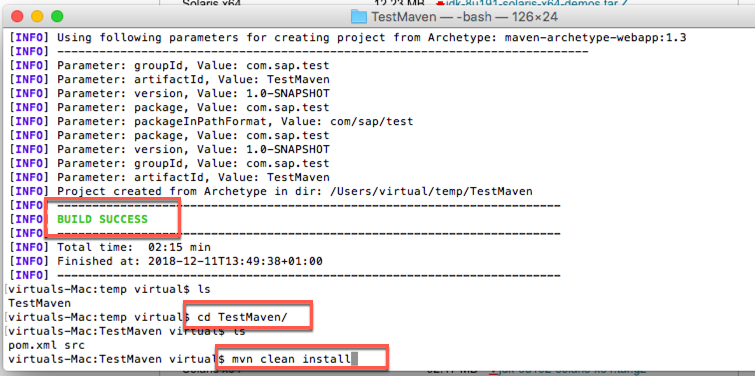
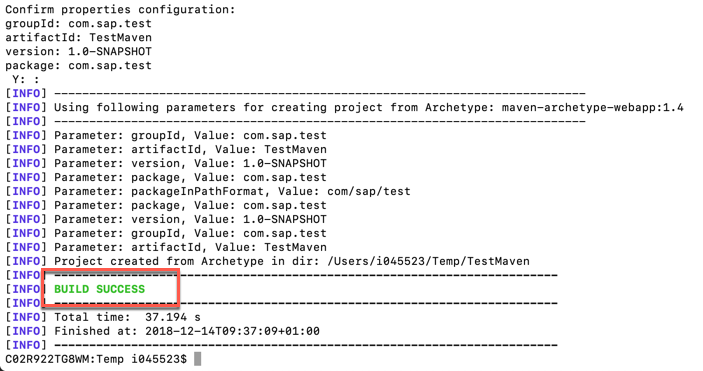
Changed the archetype and related screenshots

diff --git a/Prerequisites/Prerequisites.md b/Prerequisites/Prerequisites.md
@@ -99,7 +99,7 @@ You are ready to test if you can build and run a Java Web application project wi
 1. Go inside this folder in the Terminal and run the following command
 
 	```sh
-	mvn archetype:generate -DarchetypeGroupId=org.apache.maven.archetypes -DarchetypeArtifactId=maven-archetype-quickstart -DarchetypeVersion=1.3
+	mvn archetype:generate -DarchetypeGroupId=org.apache.maven.archetypes -DarchetypeArtifactId=maven-archetype-webapp -DarchetypeVersion=1.4
 	```
 	![](images/02.png)
 
@@ -117,19 +117,23 @@ You are ready to test if you can build and run a Java Web application project wi
 
 	![](images/04.png)
 
-1. At the end of the process you should see the **BUILD SUCCESS** message as shown in the picture. Go inside the *TestMaven* folder and run the command
+1. At the end of the process you should see the **BUILD SUCCESS** message as shown in the picture. 
+
+	![](images/05.png)
+
+1. Go inside the *TestMaven* folder and run the command
 
 	```
 	mvn clean install
 	```
 	This command will trigger the cleaning of the *target* folder and the building of the test application  
-	![](images/05.png)
-
-1. When the process finishes you should have again a **BUILD SUCCESS** message: this means that this sample application has been built successfully  
 	![](images/06.png)
 
-1. You can also check that the application named *TestMaven.war* is correctly available in the target folder  
+1. When the process finishes you should have again a **BUILD SUCCESS** message: this means that this sample application has been built successfully  
 	![](images/07.png)
+
+1. You can also check that the application named *TestMaven.war* is correctly available in the target folder  
+	![](images/08.png)
 
 
 
@@ -138,7 +142,7 @@ You are ready to test if you can build and run a Java Web application project wi
 For the workshop exercises you need to install the **Postman** application. It will allow you to send REST requests to backend systems. You can open the following link to install it:
 
 1. Download Postman from [here](https://www.getpostman.com) and install it  
-	![](images/08.png)
+	![](images/09.png)
 
 
 
@@ -147,22 +151,22 @@ For the workshop exercises you need to install the **Postman** application. It w
 For the workshop exercises you need to install the **Visual Studio Code** as your development environment. You can open the following link to install it:
 
 1. Download Visual Studio Code from [here](https://code.visualstudio.com) and install it  
-	![](images/09.png)
-
-1. Click on **Open folder...**  
 	![](images/10.png)
 
-1. Browse for the folder of the **TestMaven** project you created earlier using Maven  
+1. Click on **Open folder...**  
 	![](images/11.png)
 
-1. Locate the *App.java* in the Explorer and if you get the propt to install the Java extension, install it
+1. Browse for the folder of the **TestMaven** project you created earlier using Maven  
 	![](images/12.png)
 
-1. After the installation of the Java Extension Pack and the Maven for Java extensions, click on one of the **Reload** buttons to reload your IDE
+1. Locate the *App.java* in the Explorer and if you get the propt to install the Java extension, install it
 	![](images/13.png)
 
-1. After it's reloaded simply close the current folder from the **File** menu
+1. After the installation of the Java Extension Pack and the Maven for Java extensions, click on one of the **Reload** buttons to reload your IDE
 	![](images/14.png)
+
+1. After it's reloaded simply close the current folder from the **File** menu
+	![](images/15.png)
 
 1. Your Visual Studio Code is correctly installed and you have also equipped it with the Java Extension pack.
 
@@ -174,15 +178,15 @@ For the workshop exercises you need to install the **Visual Studio Code** as you
 You need Neo trial SAP Cloud Platform to complete standalone hands-on exercise for Workflow Service and Business Rules Service. 
 
 1.	Sign up for SAP Cloud Platform trial account from <https://cloudplatform.sap.com/> by clicking on the **Start your free trial** button. If you already have an account on the Trial landscape please login with that account  
-	![](images/15.png)
-
-1. After you have logged in, click on **Neo Trial**   
 	![](images/16.png)
 
-1. This will take you to the **Overview** page of the SAP Cloud Platform Cockpit for the Neo stack  
+1. After you have logged in, click on **Neo Trial**   
 	![](images/17.png)
 
-1.	From SAP Cloud Platform Cockpit, click on **Services**, search for the word "web" and enable the **SAP Web IDE Full-Stack** service  	![](images/18.png)
+1. This will take you to the **Overview** page of the SAP Cloud Platform Cockpit for the Neo stack  
+	![](images/18.png)
+
+1.	From SAP Cloud Platform Cockpit, click on **Services**, search for the word "web" and enable the **SAP Web IDE Full-Stack** service  	![](images/19.png)
 	 	
         
 
@@ -192,19 +196,19 @@ You need Neo trial SAP Cloud Platform to complete standalone hands-on exercise f
 Sign up also for SAP Cloud Platform Cloud Foundry trial account.
 
 1.	From SAP Cloud Platform Cockpit, click on **Cloud Foundry Trial**. This will bring you directly into your Cloud Foundry Trial subaccount  
-	![](images/19.png)
-
-2. If you already have activated this kind of landscape in the past, consider that it might be expired since the validity is only **30 days**. All you have to do is to reactivate the trial by going on the first icon in the top toolbar and selecting **Extend Free Trial**. Then you have to refresh your browser. The button for extending free trial is only available after your trial plan is expired  
 	![](images/20.png)
 
-1.	Select your trial sub-account  
-	![](images/21.png)	 
+2. If you already have activated this kind of landscape in the past, consider that it might be expired since the validity is only **30 days**. All you have to do is to reactivate the trial by going on the first icon in the top toolbar and selecting **Extend Free Trial**. Then you have to refresh your browser. The button for extending free trial is only available after your trial plan is expired  
+	![](images/21.png)
 
-1.	Click on **Spaces** on the left sidebar  
+1.	Select your trial sub-account  
 	![](images/22.png)	 
 
+1.	Click on **Spaces** on the left sidebar  
+	![](images/23.png)	 
+
 1.	You should have just one space. Make sure you have **4GB Memory** for your space. If you don’t have 4GB Memory, please register a new account.  
-	![](images/23.png)
+	![](images/24.png)
 
 
 
